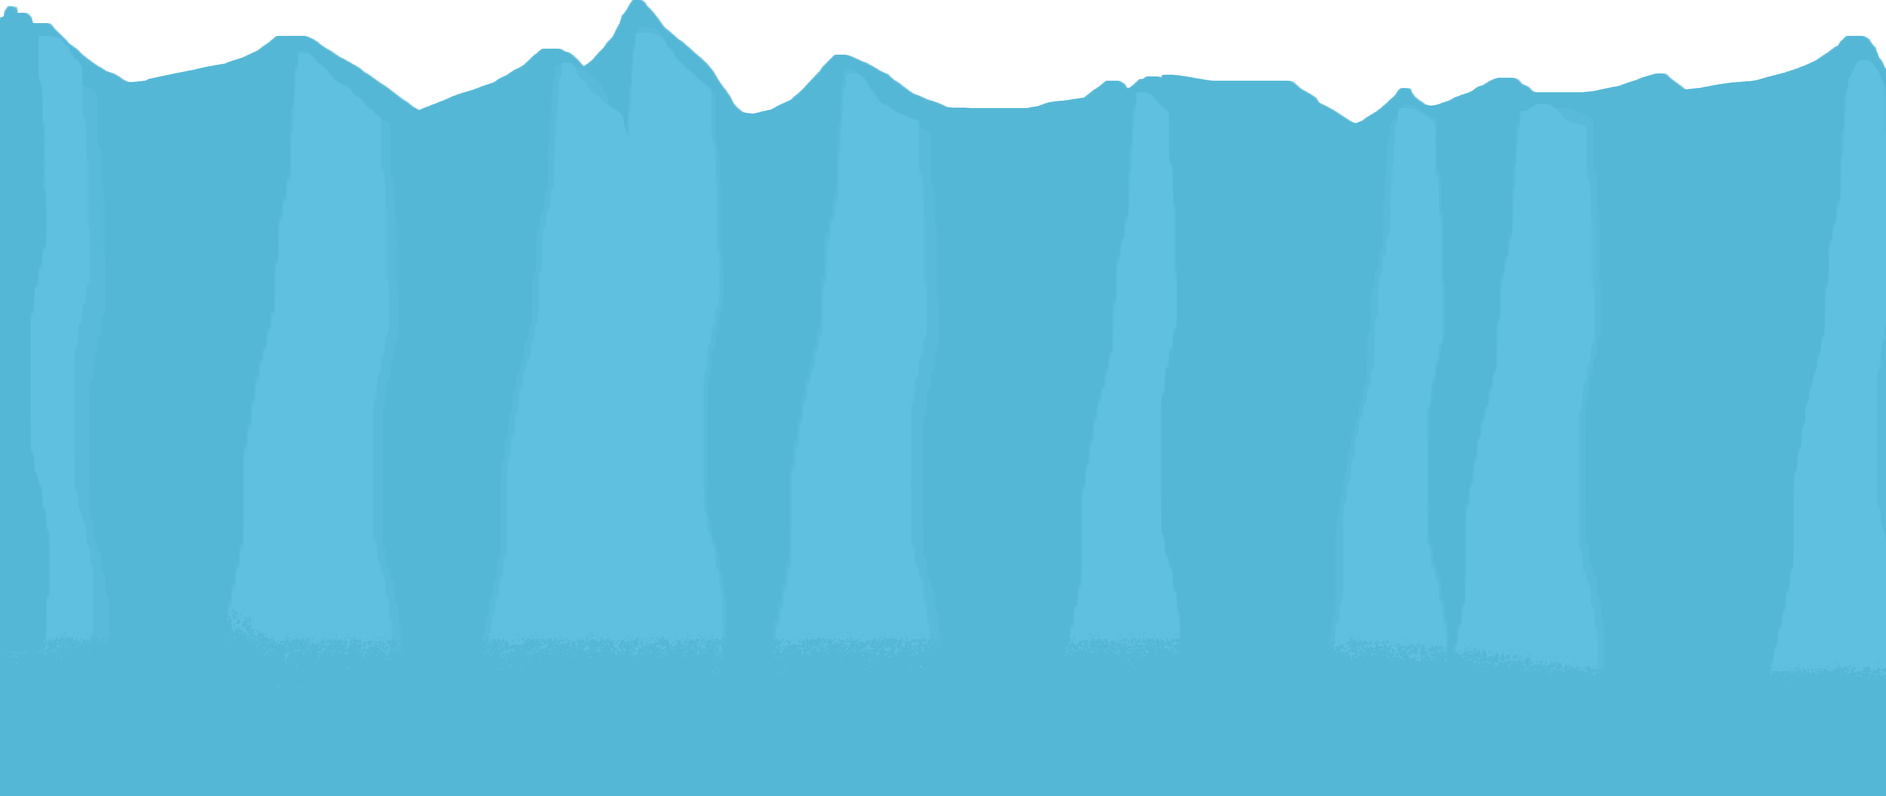
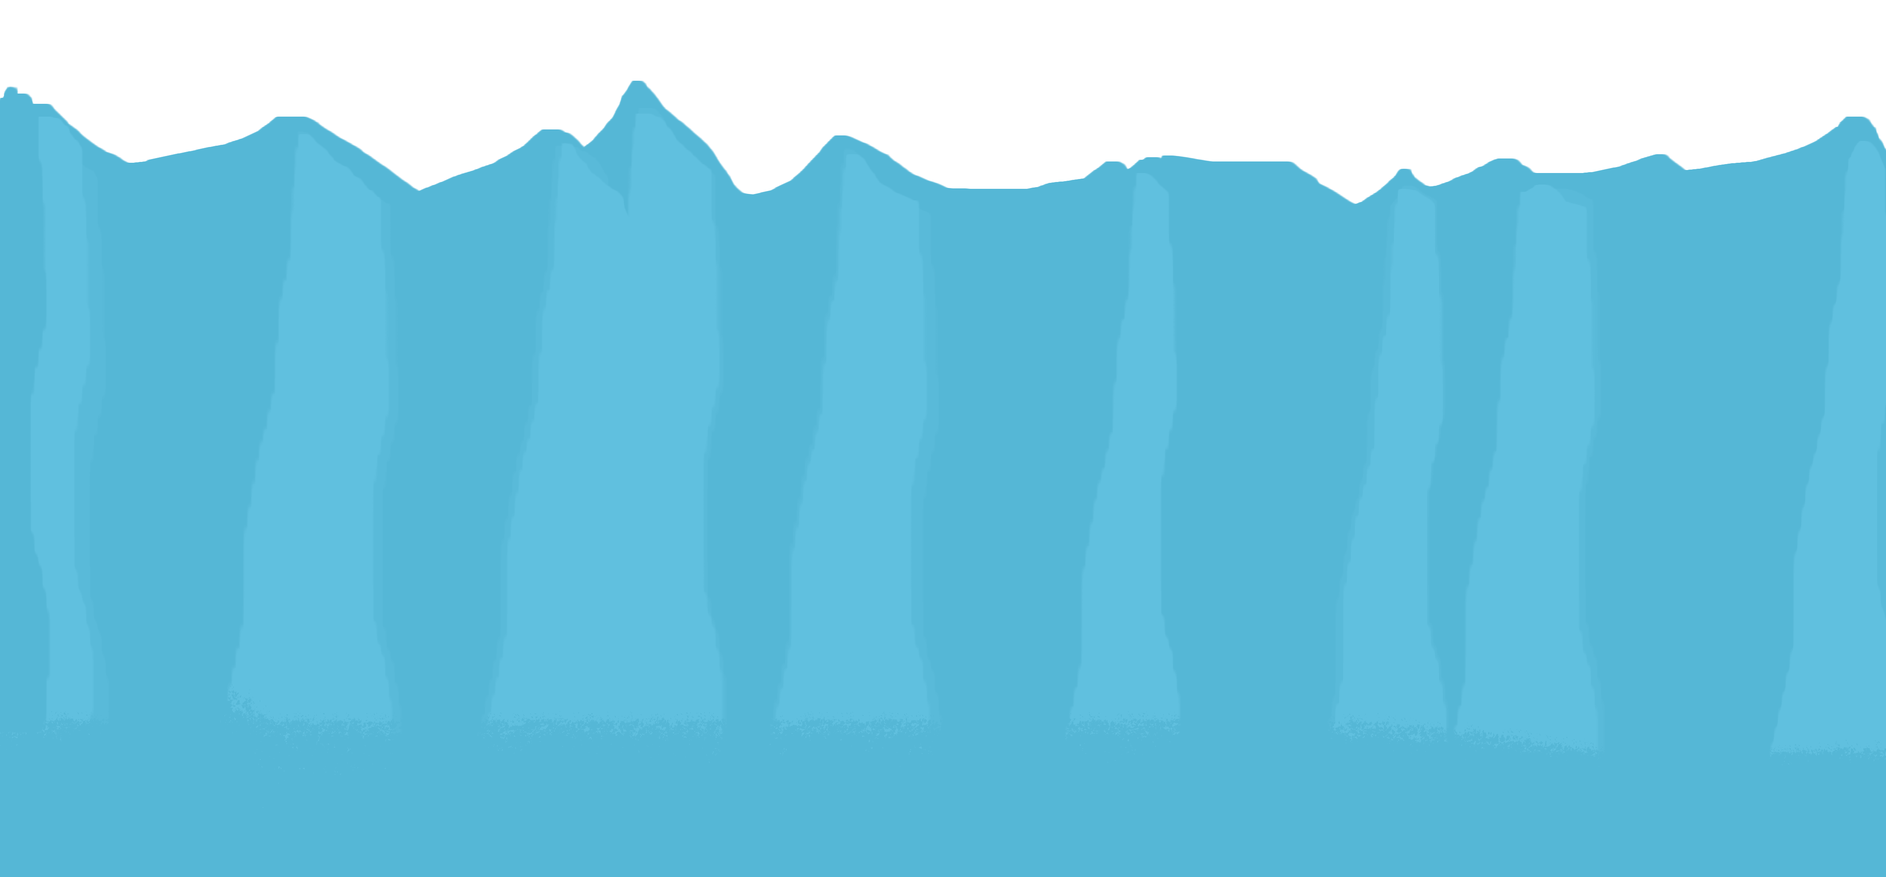
version

Changed region(s): [[0.0, 0.0, 1.0, 0.2489]]

diff --git a/app/css/app.min.css b/app/css/app.min.css
@@ -1,1 +1,1 @@
-@font-face{font-family:'Five Minutes';src:url(../fonts/FiveMinutes.woff);src:url(../fonts/FiveMinutes.woff) format('woff'),url(../fonts/FiveMinutes.woff2) format('woff2'),url(../fonts/FiveMinutes.eot?#iefix) format('embedded-opentype'),url(../fonts/FiveMinutes.ttf) format('truetype'),url(../fonts/FiveMinutes.svg#FiveMinutes) format('svg');font-weight:400;font-style:normal;font-display:swap}.container{height:100vh;overflow:hidden;position:relative;z-index:1;display:-webkit-box;display:-ms-flexbox;display:flex;-webkit-box-align:center;-ms-flex-align:center;align-items:center;background:rgba(43,121,153,.84)}.cloud{background:url(../img/dest/cloud.webp) center center/cover no-repeat no-repeat;width:100%;height:250px;position:absolute;top:0;left:0;z-index:20;display:-webkit-box;display:-ms-flexbox;display:flex;-webkit-box-pack:center;-ms-flex-pack:center;justify-content:center}.cloud .moon_wrap{margin-top:20px;overflow:hidden;width:50px;height:50px;border-radius:50%;-webkit-box-sizing:border-box;box-sizing:border-box;-webkit-box-shadow:0 0 50px rgba(226,226,226,.6);box-shadow:0 0 50px rgba(226,226,226,.6);z-index:20;display:inline-block;position:relative}.cloud .moon_wrap::after{content:'';position:absolute;width:100%;height:100%;-webkit-box-shadow:inset -20px 10px 20px #000,inset 15px -10px 15px #fff;box-shadow:inset -20px 10px 20px #000,inset 15px -10px 15px #fff;z-index:30}.cloud .moon_wrap .moon{height:50px;width:10000px;position:absolute;top:0;left:-250px;-webkit-animation:linear infinite torque 1800s;animation:linear infinite torque 1800s;background:url(../img/dest/moon1.webp) center center/contain repeat-x;z-index:11;-webkit-filter:brightness(1.1);filter:brightness(1.1)}.back_mountain{background:url(../img/dest/back_mountain1.webp) center center/cover no-repeat no-repeat;width:100%;height:100%;position:absolute;bottom:0;left:0}.front_mountain{background:url(../img/dest/front_mountain1.webp) center center/cover no-repeat no-repeat;width:100%;height:100%;position:absolute;bottom:0;left:0}.back_trees{background:url(../img/dest/back_trees1.webp) center center/cover no-repeat no-repeat;width:100%;height:100%;position:absolute;bottom:0;left:0}.front_trees{background:url(../img/dest/front_trees1.webp) center center/cover no-repeat no-repeat;width:100%;height:100%;position:absolute;bottom:0;left:0}.walk_house{background:url(../img/dest/tower_pumpkin.webp) center center/cover no-repeat no-repeat;width:100%;height:100%;position:absolute;bottom:0;right:0;display:-webkit-box;display:-ms-flexbox;display:flex;-webkit-box-pack:end;-ms-flex-pack:end;justify-content:flex-end;-webkit-box-align:end;-ms-flex-align:end;align-items:flex-end;-webkit-filter:hue-rotate(0);filter:hue-rotate(0);-webkit-animation:linear filter_pumpkin 50s infinite;animation:linear filter_pumpkin 50s infinite;z-index:40}.walk_house .person{position:absolute;bottom:30.5%;left:-100px}.walk_house .person1{height:100px;width:100px;background:url(../img/dest/z1.webp) 0 0;-webkit-animation:go_z1 1s steps(10) infinite,linear person_go 10s 0s infinite;animation:go_z1 1s steps(10) infinite,linear person_go 10s 0s infinite}.walk_house .person2{height:100px;width:100px;background:url(../img/dest/z2.webp) 0 0;-webkit-animation:go_z2 .8s steps(6) infinite,linear person_go 12s 10s infinite;animation:go_z2 .8s steps(6) infinite,linear person_go 12s 10s infinite}.walk_house .person3{height:100px;width:100px;background:url(../img/dest/z3.webp) 0 0;-webkit-animation:go_z1 1s steps(10) infinite,linear person_go 14s 20s infinite;animation:go_z1 1s steps(10) infinite,linear person_go 14s 20s infinite}.walk_house .person4{height:100px;width:100px;background:url(../img/dest/z4.webp) 0 0;-webkit-animation:go_z1 1s steps(10) infinite,linear person_go 16s 30s infinite;animation:go_z1 1s steps(10) infinite,linear person_go 16s 30s infinite}.walk_house .person5{height:100px;width:100px;background:url(../img/dest/z5.webp) 0 0;-webkit-animation:go_z2 1s steps(6) infinite,linear person_go 18s 40s infinite;animation:go_z2 1s steps(6) infinite,linear person_go 18s 40s infinite}.walk_house .person6{height:100px;width:100px;background:url(../img/dest/skelet1.webp) 0 0;-webkit-animation:go_z2 1s steps(6) infinite,linear person_go 20s 50s infinite;animation:go_z2 1s steps(6) infinite,linear person_go 20s 50s infinite;bottom:30.3%}.front_grass{width:100%;height:100%;position:absolute;bottom:0;left:0;right:0;z-index:50}.front_grass img{height:100%}@-webkit-keyframes go_z1{100%{background-position:-1000px 0}}@keyframes go_z1{100%{background-position:-1000px 0}}@-webkit-keyframes go_z2{100%{background-position:-600px 0}}@keyframes go_z2{100%{background-position:-600px 0}}@-webkit-keyframes filter_pumpkin{100%{-webkit-filter:hue-rotate(360deg);filter:hue-rotate(360deg)}}@keyframes filter_pumpkin{100%{-webkit-filter:hue-rotate(360deg);filter:hue-rotate(360deg)}}@-webkit-keyframes person_go{100%{left:100%}}@keyframes person_go{100%{left:100%}}@-webkit-keyframes torque{0%{-webkit-transform:translateX(-550px);transform:translateX(-550px)}50%{-webkit-transform:translateX(-9000px);transform:translateX(-9000px)}100%{-webkit-transform:translateX(-550px);transform:translateX(-550px)}}@keyframes torque{0%{-webkit-transform:translateX(-550px);transform:translateX(-550px)}50%{-webkit-transform:translateX(-9000px);transform:translateX(-9000px)}100%{-webkit-transform:translateX(-550px);transform:translateX(-550px)}}html{font-size:10px;font-family:sans-serif;overflow-x:hidden;-webkit-box-sizing:border-box;box-sizing:border-box;position:relative;z-index:1;scroll-behavior:smooth}html blockquote,html body,html code,html dd,html div,html dl,html dt,html fieldset,html form,html h1,html h2,html h3,html h4,html h5,html h6,html input,html li,html p,html pre,html td,html textarea,html th,html ul{margin:0;padding:0}html table{border-collapse:collapse;border-spacing:0}html abbr,html fieldset,html img{border:0}html address,html caption,html cite,html code,html dfn,html em,html strong,html th,html var{font-style:normal;font-weight:400}html ul li{list-style:none}html caption,html th{text-align:left}html h1,html h2,html h3,html h4,html h5,html h6{font-size:100%;font-weight:400}html sup{vertical-align:text-top}html sub{vertical-align:text-bottom}html input,html select,html textarea{font-family:inherit;font-size:inherit;font-weight:inherit}html legend{color:#000}html article,html aside,html details,html figcaption,html figure,html footer,html header,html hgroup,html main,html menu,html nav,html section{display:block}html img{max-width:100%;height:auto}body{font-size:16px;margin:0;scroll-behavior:smooth;overflow:hidden;height:100vh}#bg{width:100%;height:100%;position:absolute;top:0;right:0;bottom:0;left:0}
+@font-face{font-family:'Five Minutes';src:url(../fonts/FiveMinutes.woff);src:url(../fonts/FiveMinutes.woff) format('woff'),url(../fonts/FiveMinutes.woff2) format('woff2'),url(../fonts/FiveMinutes.eot?#iefix) format('embedded-opentype'),url(../fonts/FiveMinutes.ttf) format('truetype'),url(../fonts/FiveMinutes.svg#FiveMinutes) format('svg');font-weight:400;font-style:normal;font-display:swap}.container{height:100vh;overflow:hidden;position:relative;z-index:1;display:-webkit-box;display:-ms-flexbox;display:flex;-webkit-box-align:center;-ms-flex-align:center;align-items:center;background:rgba(43,121,153,.84)}.cloud{background:url(../img/dest/cloud.webp) center center/cover no-repeat no-repeat;width:100%;height:250px;position:absolute;top:0;left:0;z-index:40;display:-webkit-box;display:-ms-flexbox;display:flex;-webkit-box-pack:center;-ms-flex-pack:center;justify-content:center}.cloud .moon_wrap{margin-top:20px;overflow:hidden;width:50px;height:50px;border-radius:50%;-webkit-box-sizing:border-box;box-sizing:border-box;-webkit-box-shadow:0 0 50px rgba(226,226,226,.6);box-shadow:0 0 50px rgba(226,226,226,.6);z-index:20;display:inline-block;position:relative;opacity:.5}.cloud .moon_wrap::after{content:'';position:absolute;width:100%;height:100%;-webkit-box-shadow:inset -20px 10px 20px #000,inset 15px -10px 15px #fff;box-shadow:inset -20px 10px 20px #000,inset 15px -10px 15px #fff;z-index:30}.cloud .moon_wrap .moon{height:50px;width:10000px;position:absolute;top:0;left:-250px;-webkit-animation:linear infinite torque 1800s;animation:linear infinite torque 1800s;background:url(../img/dest/moon1.webp) center center/contain repeat-x;z-index:11;-webkit-filter:brightness(1.1);filter:brightness(1.1)}.back_mountain{background:url(../img/dest/back_mountain.webp) center center/cover no-repeat no-repeat;width:calc(100% + 200px);height:calc(100% + 200px);position:absolute;bottom:-155px;left:-100px;-webkit-filter:brightness(.85);filter:brightness(.85);-webkit-transition:all 2s;-o-transition:all 2s;transition:all 2s}.front_mountain{background:url(../img/dest/front_mountain1.webp) center center/cover no-repeat no-repeat;width:calc(100% + 150px);height:calc(100% + 150px);position:absolute;bottom:-165px;left:-75px;-webkit-transition:all 2s;-o-transition:all 2s;transition:all 2s}.back_trees{background:url(../img/dest/back_trees1.webp) center center/cover no-repeat no-repeat;width:calc(100% + 100px);height:calc(100% + 100px);position:absolute;bottom:-15px;left:-50px;-webkit-transition:all 2s;-o-transition:all 2s;transition:all 2s}.front_trees{background:url(../img/dest/front_trees1.webp) center center/cover no-repeat no-repeat;width:calc(100% + 60px);height:calc(100% + 60px);position:absolute;bottom:30px;left:-30px;-webkit-transition:all 2s;-o-transition:all 2s;transition:all 2s}.walk_house{background:url(../img/dest/bg.webp) center center/cover no-repeat no-repeat;width:100%;height:100%;position:absolute;bottom:0;right:0;display:-webkit-box;display:-ms-flexbox;display:flex;-webkit-box-pack:end;-ms-flex-pack:end;justify-content:flex-end;-webkit-box-align:end;-ms-flex-align:end;align-items:flex-end;-webkit-filter:hue-rotate(0);filter:hue-rotate(0);-webkit-animation:linear filter_pumpkin 50s infinite,linear disco_rotate 5s infinite;animation:linear filter_pumpkin 50s infinite,linear disco_rotate 5s infinite;z-index:40}.walk_house .person{position:absolute;bottom:30.5%;left:-100px}.walk_house .person1{height:100px;width:100px;background:url(../img/dest/z1.webp) 0 0;-webkit-animation:go_z1 1s steps(10) infinite,linear person_go 10s 0s infinite;animation:go_z1 1s steps(10) infinite,linear person_go 10s 0s infinite}.walk_house .person2{height:100px;width:100px;background:url(../img/dest/z2.webp) 0 0;-webkit-animation:go_z2 .8s steps(6) infinite,linear person_go 12s 10s infinite;animation:go_z2 .8s steps(6) infinite,linear person_go 12s 10s infinite}.walk_house .person3{height:100px;width:100px;background:url(../img/dest/z3.webp) 0 0;-webkit-animation:go_z1 1s steps(10) infinite,linear person_go 14s 20s infinite;animation:go_z1 1s steps(10) infinite,linear person_go 14s 20s infinite}.walk_house .person4{height:100px;width:100px;background:url(../img/dest/z4.webp) 0 0;-webkit-animation:go_z1 1s steps(10) infinite,linear person_go 16s 30s infinite;animation:go_z1 1s steps(10) infinite,linear person_go 16s 30s infinite}.walk_house .person5{height:100px;width:100px;background:url(../img/dest/z5.webp) 0 0;-webkit-animation:go_z2 1s steps(6) infinite,linear person_go 18s 40s infinite;animation:go_z2 1s steps(6) infinite,linear person_go 18s 40s infinite}.walk_house .person6{height:100px;width:100px;background:url(../img/dest/skelet1.webp) 0 0;-webkit-animation:go_z2 1s steps(6) infinite,linear person_go 20s 50s infinite;animation:go_z2 1s steps(6) infinite,linear person_go 20s 50s infinite;bottom:29.5%}.front_grass{width:100%;height:100%;position:absolute;bottom:0;left:0;right:0;z-index:50}.front_grass img{height:100%;min-width:100%}.bat_fly1{position:absolute;top:1000px;right:0;background:url(../img/dest/bat_fly1.webp) center center/contain no-repeat no-repeat;width:20px;height:20px;-webkit-filter:hue-rotate(157deg);filter:hue-rotate(157deg);opacity:.7;z-index:20;-webkit-animation:linear bat_fly 12s 15s infinite;animation:linear bat_fly 12s 15s infinite}.bat_fly2{position:absolute;top:1000px;right:0;background:url(../img/dest/bat_fly2.webp) center center/contain no-repeat no-repeat;width:20px;height:20px;-webkit-filter:hue-rotate(157deg);filter:hue-rotate(157deg);opacity:.7;z-index:20;-webkit-animation:linear bat_fly 13s 25s infinite;animation:linear bat_fly 13s 25s infinite}@-webkit-keyframes go_z1{100%{background-position:-1000px 0}}@keyframes go_z1{100%{background-position:-1000px 0}}@-webkit-keyframes go_z2{100%{background-position:-600px 0}}@keyframes go_z2{100%{background-position:-600px 0}}@-webkit-keyframes filter_pumpkin{100%{-webkit-filter:hue-rotate(360deg);filter:hue-rotate(360deg)}}@keyframes filter_pumpkin{100%{-webkit-filter:hue-rotate(360deg);filter:hue-rotate(360deg)}}@-webkit-keyframes person_go{100%{left:100%}}@keyframes person_go{100%{left:100%}}@-webkit-keyframes torque{0%{-webkit-transform:translateX(-550px);transform:translateX(-550px)}50%{-webkit-transform:translateX(-9000px);transform:translateX(-9000px)}100%{-webkit-transform:translateX(-550px);transform:translateX(-550px)}}@keyframes torque{0%{-webkit-transform:translateX(-550px);transform:translateX(-550px)}50%{-webkit-transform:translateX(-9000px);transform:translateX(-9000px)}100%{-webkit-transform:translateX(-550px);transform:translateX(-550px)}}@-webkit-keyframes bat_fly{0%{width:2px;height:2px;top:1000px;right:0}80%{width:2px;height:2px;top:1000px;right:0}100%{width:500px;height:500px;top:-500px;right:20%}}@keyframes bat_fly{0%{width:2px;height:2px;top:1000px;right:0}80%{width:2px;height:2px;top:1000px;right:0}100%{width:500px;height:500px;top:-500px;right:20%}}@-webkit-keyframes disco_rotate{0%{background:url(../img/dest/bg.webp) center center/cover no-repeat no-repeat}20%{background:url(../img/dest/bg1.webp) center center/cover no-repeat no-repeat}40%{background:url(../img/dest/bg2.webp) center center/cover no-repeat no-repeat}50%{background:url(../img/dest/bg3.webp) center center/cover no-repeat no-repeat}60%{background:url(../img/dest/bg4.webp) center center/cover no-repeat no-repeat}80%{background:url(../img/dest/bg5.webp) center center/cover no-repeat no-repeat}100%{background:url(../img/dest/bg.webp) center center/cover no-repeat no-repeat}}@keyframes disco_rotate{0%{background:url(../img/dest/bg.webp) center center/cover no-repeat no-repeat}20%{background:url(../img/dest/bg1.webp) center center/cover no-repeat no-repeat}40%{background:url(../img/dest/bg2.webp) center center/cover no-repeat no-repeat}50%{background:url(../img/dest/bg3.webp) center center/cover no-repeat no-repeat}60%{background:url(../img/dest/bg4.webp) center center/cover no-repeat no-repeat}80%{background:url(../img/dest/bg5.webp) center center/cover no-repeat no-repeat}100%{background:url(../img/dest/bg.webp) center center/cover no-repeat no-repeat}}html{font-size:10px;font-family:sans-serif;overflow-x:hidden;-webkit-box-sizing:border-box;box-sizing:border-box;position:relative;z-index:1;scroll-behavior:smooth}html blockquote,html body,html code,html dd,html div,html dl,html dt,html fieldset,html form,html h1,html h2,html h3,html h4,html h5,html h6,html input,html li,html p,html pre,html td,html textarea,html th,html ul{margin:0;padding:0}html table{border-collapse:collapse;border-spacing:0}html abbr,html fieldset,html img{border:0}html address,html caption,html cite,html code,html dfn,html em,html strong,html th,html var{font-style:normal;font-weight:400}html ul li{list-style:none}html caption,html th{text-align:left}html h1,html h2,html h3,html h4,html h5,html h6{font-size:100%;font-weight:400}html sup{vertical-align:text-top}html sub{vertical-align:text-bottom}html input,html select,html textarea{font-family:inherit;font-size:inherit;font-weight:inherit}html legend{color:#000}html article,html aside,html details,html figcaption,html figure,html footer,html header,html hgroup,html main,html menu,html nav,html section{display:block}html img{max-width:100%;height:auto}body{font-size:16px;margin:0;scroll-behavior:smooth;overflow:hidden;height:100vh}#bg{width:100%;height:100%;position:absolute;top:0;right:0;bottom:0;left:0}

diff --git a/app/less/halloween.less b/app/less/halloween.less
@@ -15,7 +15,7 @@
   position: absolute;
   top: 0;
   left: 0;
-  z-index: 20;
+  z-index: 40;
   display: flex;
   justify-content: center;
 
@@ -30,6 +30,7 @@
     z-index: 20;
     display: inline-block;
     position: relative;
+    opacity: .5;
 
     &::after {
       content: '';
@@ -55,44 +56,49 @@
 }
 
 .back_mountain {
-  background: url("../img/dest/back_mountain1.webp") center center /cover no-repeat no-repeat;
-  width: 100%;
-  height: 100%;
+  background: url(../img/dest/back_mountain.webp) center center/cover no-repeat no-repeat;
+  width: calc(100% + 200px);
+  height: calc(100% + 200px);
   position: absolute;
-  bottom: 0;
-  left: 0;
+  bottom: -155px;
+  left: -100px;
+  filter: brightness(0.85);
+  transition: all 2s;
 }
 
 .front_mountain {
   background: url("../img/dest/front_mountain1.webp") center center /cover no-repeat no-repeat;
-  width: 100%;
-  height: 100%;
+  width: calc(100% + 150px);
+  height: calc(100% + 150px);
   position: absolute;
-  bottom: 0;
-  left: 0;
+  bottom: -165px;
+  left: -75px;
+  transition: all 2s;
 }
 
 .back_trees {
   background: url("../img/dest/back_trees1.webp") center center /cover no-repeat no-repeat;
-  width: 100%;
-  height: 100%;
+  width: calc(100% + 100px);
+  height: calc(100% + 100px);
   position: absolute;
-  bottom: 0;
-  left: 0;
+  bottom: -15px;
+  left: -50px;
+  transition: all 2s;
 }
 
 .front_trees {
   background: url("../img/dest/front_trees1.webp") center center /cover no-repeat no-repeat;
-  width: 100%;
-  height: 100%;
+  width: calc(100% + 60px);
+  height: calc(100% + 60px);
   position: absolute;
-  bottom: 0;
-  left: 0;
+  bottom: 30px;
+  left: -30px;
+  transition: all 2s;
 }
 
 .walk_house {
   //background: url("../img/dest/tower1.webp") center center/cover no-repeat no-repeat;
-  background: url("../img/dest/tower_pumpkin.webp") center center/cover no-repeat no-repeat;
+  background: url("../img/dest/bg.webp") center center/cover no-repeat no-repeat;
   width: 100%;
   height: 100%;
   position: absolute;
@@ -102,7 +108,7 @@
   justify-content: flex-end;
   align-items: flex-end;
   filter: hue-rotate(0deg);
-  animation: linear filter_pumpkin 50s infinite;
+  animation: linear filter_pumpkin 50s infinite, linear disco_rotate 5s infinite;
   z-index: 40;
 
   .person {
@@ -151,10 +157,9 @@
     width: 100px;
     background: url(../img/dest/skelet1.webp) 0 0;
     animation: go_z2 1s steps(6) infinite, linear person_go 20s 50s infinite;
-    bottom: 30.3%;
+    bottom: 29.5%;
   }
 }
-
 
 .front_grass {
   width: 100%;
@@ -167,7 +172,34 @@
 
   img {
     height: 100%;
+    min-width: 100%;
   }
+}
+
+.bat_fly1 {
+  position: absolute;
+  top: 1000px;
+  right: 0;
+  background: url(../img/dest/bat_fly1.webp) center center / contain no-repeat no-repeat;
+  width: 20px;
+  height: 20px;
+  filter: hue-rotate(157deg);
+  opacity: .7;
+  z-index: 20;
+  animation: linear bat_fly 12s 15s infinite;
+}
+
+.bat_fly2 {
+  position: absolute;
+  top: 1000px;
+  right: 0;
+  background: url(../img/dest/bat_fly2.webp) center center / contain no-repeat no-repeat;
+  width: 20px;
+  height: 20px;
+  filter: hue-rotate(157deg);
+  opacity: .7;
+  z-index: 20;
+  animation: linear bat_fly 13s 25s infinite;
 }
 
 
@@ -206,5 +238,58 @@
 
   100% {
     transform: translateX(-550px)
+  }
+}
+
+@keyframes bat_fly {
+  0% {
+    width: 2px;
+    height: 2px;
+    top: 1000px;
+    right: 0;
+  }
+
+  80% {
+    width: 2px;
+    height: 2px;
+    top: 1000px;
+    right: 0;
+  }
+
+  100% {
+    width: 500px;
+    height: 500px;
+    top: -500px;
+    right: 20%;
+  }
+}
+
+@keyframes disco_rotate {
+  0% {
+    background: url("../img/dest/bg.webp") center center/cover no-repeat no-repeat;
+  }
+
+  20% {
+    background: url("../img/dest/bg1.webp") center center/cover no-repeat no-repeat;
+  }
+
+  40% {
+    background: url("../img/dest/bg2.webp") center center/cover no-repeat no-repeat;
+  }
+
+  50% {
+    background: url("../img/dest/bg3.webp") center center/cover no-repeat no-repeat;
+  }
+
+  60% {
+    background: url("../img/dest/bg4.webp") center center/cover no-repeat no-repeat;
+  }
+
+  80% {
+    background: url("../img/dest/bg5.webp") center center/cover no-repeat no-repeat;
+  }
+
+  100% {
+    background: url("../img/dest/bg.webp") center center/cover no-repeat no-repeat;
   }
 }

diff --git a/app/js/app.js b/app/js/app.js
@@ -1,11 +1,56 @@
 window.addEventListener('load', () => {
-/*    let grass = document.getElementById('grass');
-    let person = document.querySelectorAll('.person');
+    let bound = 0;
+    let countClearAnim = 0;
+    const container = document.querySelector('.container');
+    const back_mountain = document.querySelector('.back_mountain');
+    const front_mountain = document.querySelector('.front_mountain');
+    const back_trees = document.querySelector('.back_trees');
+    const front_trees = document.querySelector('.front_trees');
 
-    console.log(grass.width + 'x' + grass.height);
-    console.log(grass.width + 'x' + grass.offsetHeight);
-    console.log(grass.width + 'x' + grass.clientHeight);
-    let bt = ((grass.clientHeight / 100) * 50) + 100
-    person.forEach(item => item.style.bottom = bt + 'px')*/
+    container.addEventListener('mousemove', moveBackground);
+    let xOld = 0;
+    let yOld = 0;
 
+    function moveBackground(e) {
+        clearTimeout(bound);
+        let xNew = e.screenX;
+        setTimeout(() => {
+            if (xNew > xOld) { // вправо
+                back_mountain.style.left = `-110px`;
+                front_mountain.style.left = `-95px`;
+                back_trees.style.left = `-70px`;
+                front_trees.style.left = `-60px`;
+            } else { // влево
+                back_mountain.style.left = `-90px`;
+                front_mountain.style.left = `-60px`;
+                back_trees.style.left = `-25px`;
+                front_trees.style.left = `0`;
+            }
+
+            let yNew = e.screenY;
+            if (yNew > yOld) { // вниз
+                back_mountain.style.bottom = `-145px`;
+                front_mountain.style.bottom = `-155px`;
+                back_trees.style.bottom = `-5px`;
+                front_trees.style.bottom = `60px`;
+            } else { // вверх
+                back_mountain.style.bottom = `-165px`;
+                front_mountain.style.bottom = `-180px`;
+                back_trees.style.bottom = `-70px`;
+                front_trees.style.bottom = `0`;
+            }
+            xOld = e.screenX;
+            yOld = e.screenY;
+        }, 10)
+        clearTimeout(countClearAnim);
+        countClearAnim = setTimeout(() => {
+            clearTagStyle([back_mountain, front_mountain, back_trees, front_trees]);
+        }, 2000)
+    }
+
+
+
+    function clearTagStyle(el) {
+        el.forEach(item => item.removeAttribute('style'));
+    }
 });

diff --git a/app/js/app.min.js b/app/js/app.min.js
@@ -1,2 +1,2 @@
-"use strict";window.addEventListener("load",(function(){}));
+"use strict";window.addEventListener("load",(function(){var e=0,t=document.querySelector(".container"),o=document.querySelector(".back_mountain"),l=document.querySelector(".front_mountain"),n=document.querySelector(".back_trees"),r=document.querySelector(".front_trees");t.addEventListener("mousemove",(function(t){clearTimeout(0);var u=t.screenX;setTimeout((function(){u>s?(o.style.left="-110px",l.style.left="-95px",n.style.left="-70px",r.style.left="-60px"):(o.style.left="-90px",l.style.left="-60px",n.style.left="-25px",r.style.left="0"),t.screenY>c?(o.style.bottom="-145px",l.style.bottom="-155px",n.style.bottom="-5px",r.style.bottom="60px"):(o.style.bottom="-165px",l.style.bottom="-180px",n.style.bottom="-70px",r.style.bottom="0"),s=t.screenX,c=t.screenY}),10),clearTimeout(e),e=setTimeout((function(){[o,l,n,r].forEach((function(e){return e.removeAttribute("style")}))}),2e3)}));var s=0,c=0}));
 //# sourceMappingURL=app.min.js.map

diff --git a/app/index.html b/app/index.html
@@ -30,6 +30,9 @@
     <div class="front_grass">
         <img src="img/dest/grass1.webp" alt="#" id="grass">
     </div>
+
+    <div class="bat_fly1"></div>
+    <div class="bat_fly2"></div>
 </div>
 <script src="js/app.min.js?ver=0.0.0"></script>
 </body>
